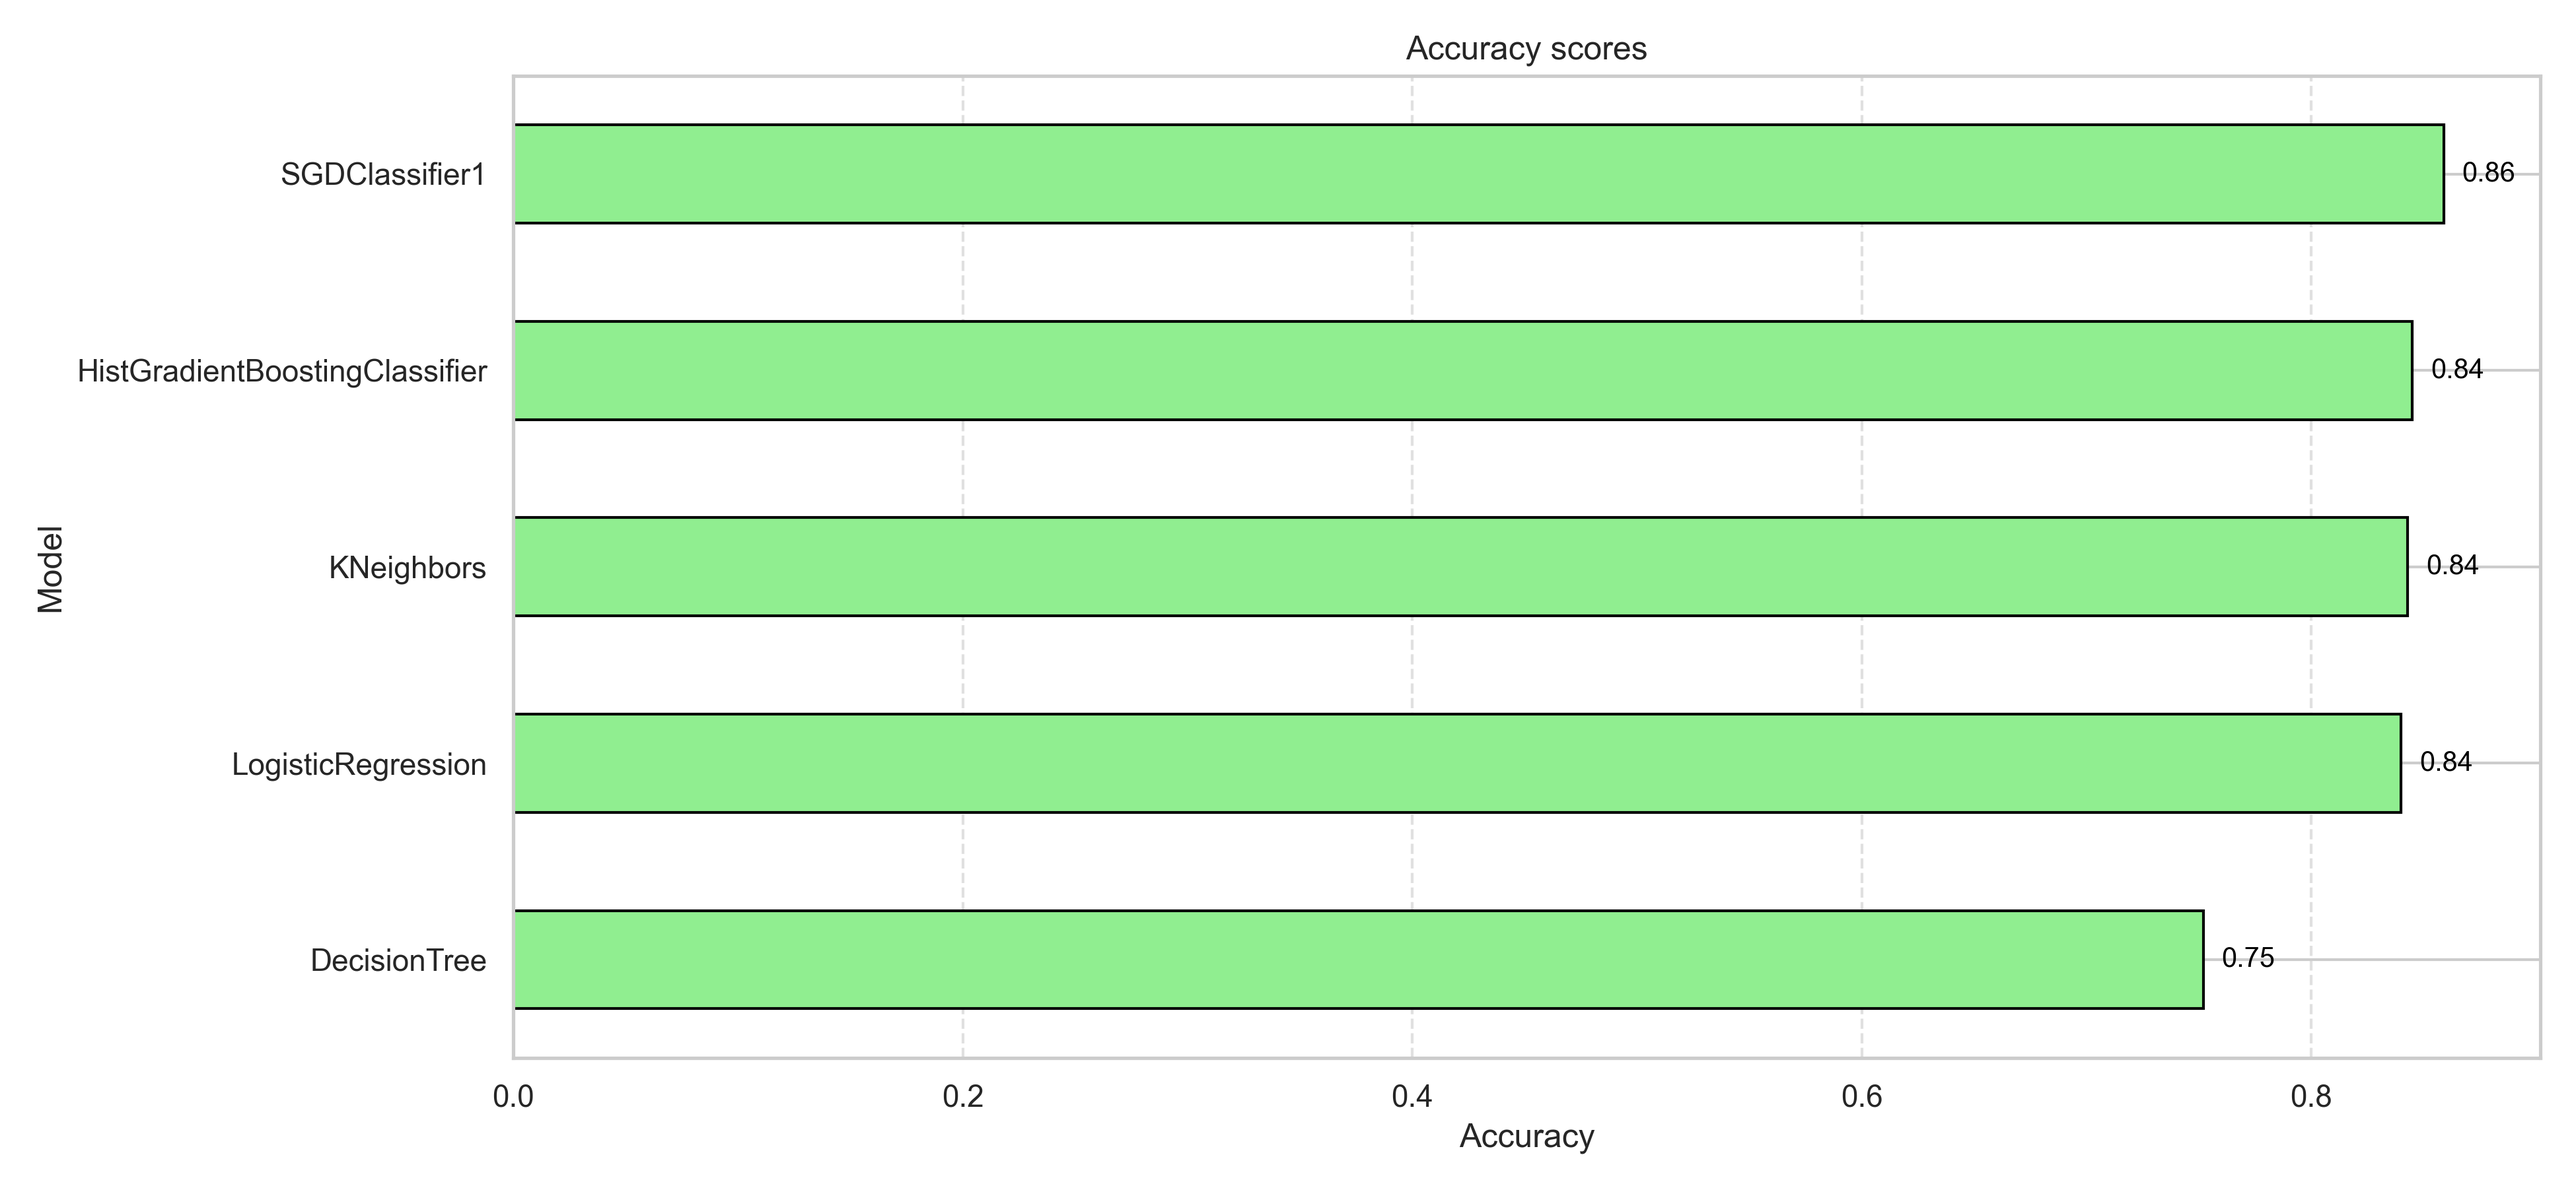
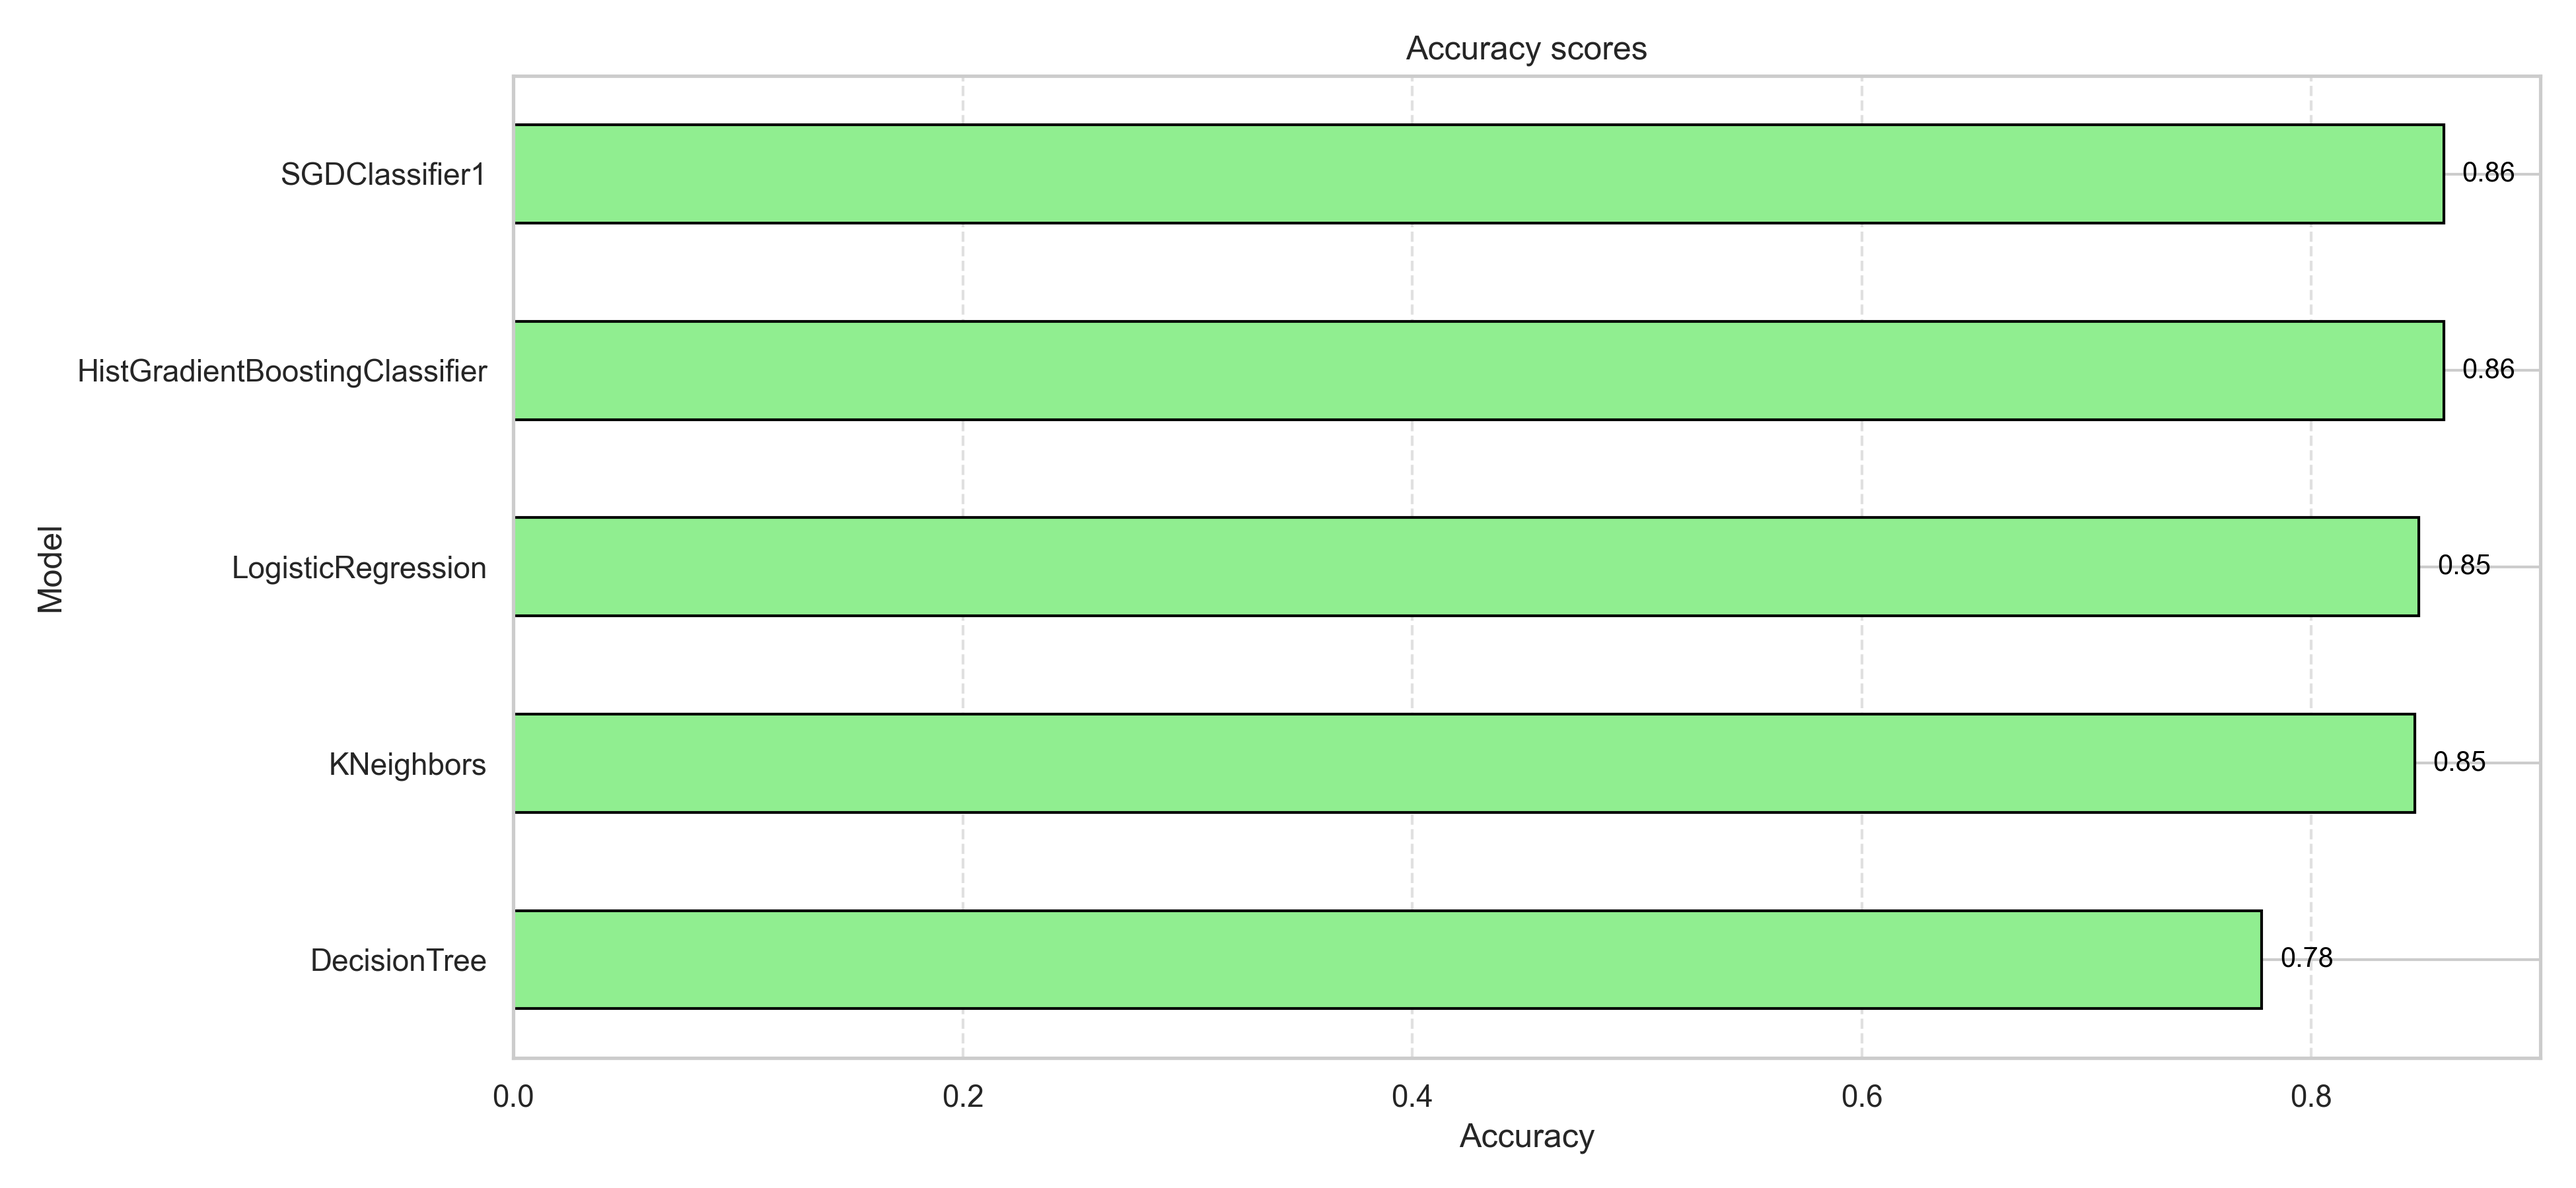
add experiments with features

diff --git a/main.py b/main.py
@@ -3,7 +3,7 @@ from sklearn.tree import DecisionTreeClassifier
 from sklearn.ensemble import HistGradientBoostingClassifier
 from sklearn.metrics import classification_report, confusion_matrix, f1_score
 from sklearn.linear_model import SGDClassifier, LogisticRegression
-from src.utils.data import download_data, make_preprocessed_edges_file, split_data, load_data, run_cleora, save_report
+from src.utils.data import download_data, make_preprocessed_edges_file, split_data, load_data, run_cleora, save_report, add_on_features
 from src.utils.plots import visualize_pipeline, save_cm
 from src.pipelines.data import DataPipeline
 from src.pipelines.model import model_pipeline
@@ -33,11 +33,15 @@ def main():
     embeddings_pipeline.run()
 
     # prepare data for ML
-    data_pipeline = DataPipeline([
-        ("Download data", download_data),
-        ("Split data", split_data),
-        ("Load Data", load_data)
-    ])
+    steps = [
+    ("Download data", download_data),
+    ("Split data", split_data),
+    ("Load Data", load_data)
+    ]
+    if config['cleora_features_bool']:
+        steps.append(("Add node features", add_on_features))
+
+    data_pipeline = DataPipeline(steps)
     X_train, X_test, y_train, y_test = data_pipeline.run()
     visualize_pipeline(data_pipeline, type='html2')
     
